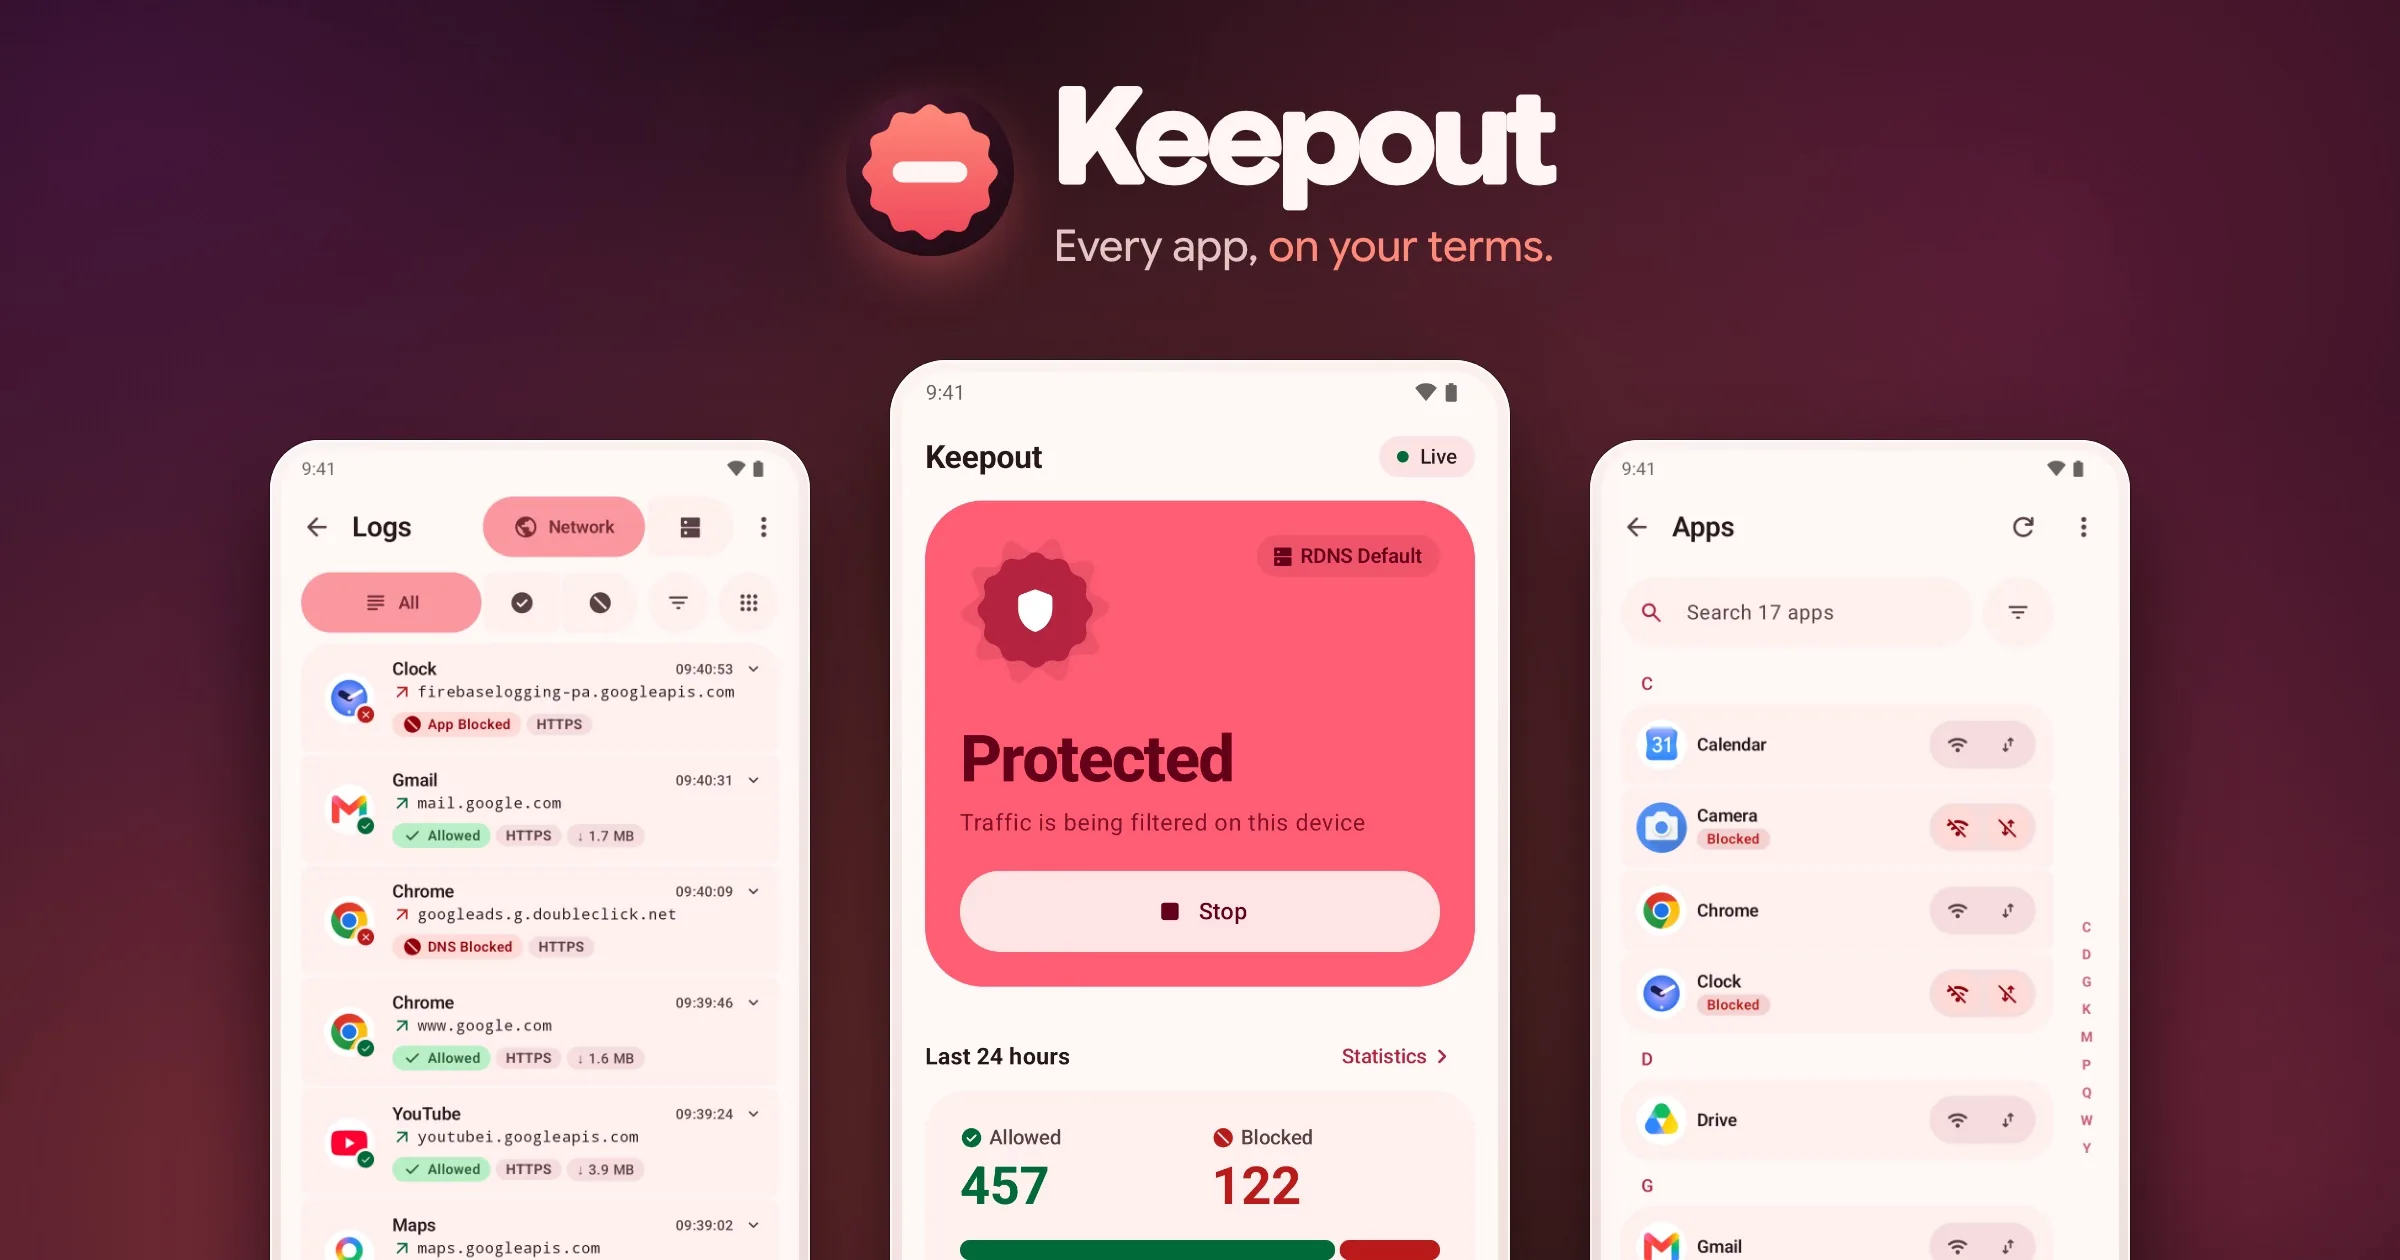
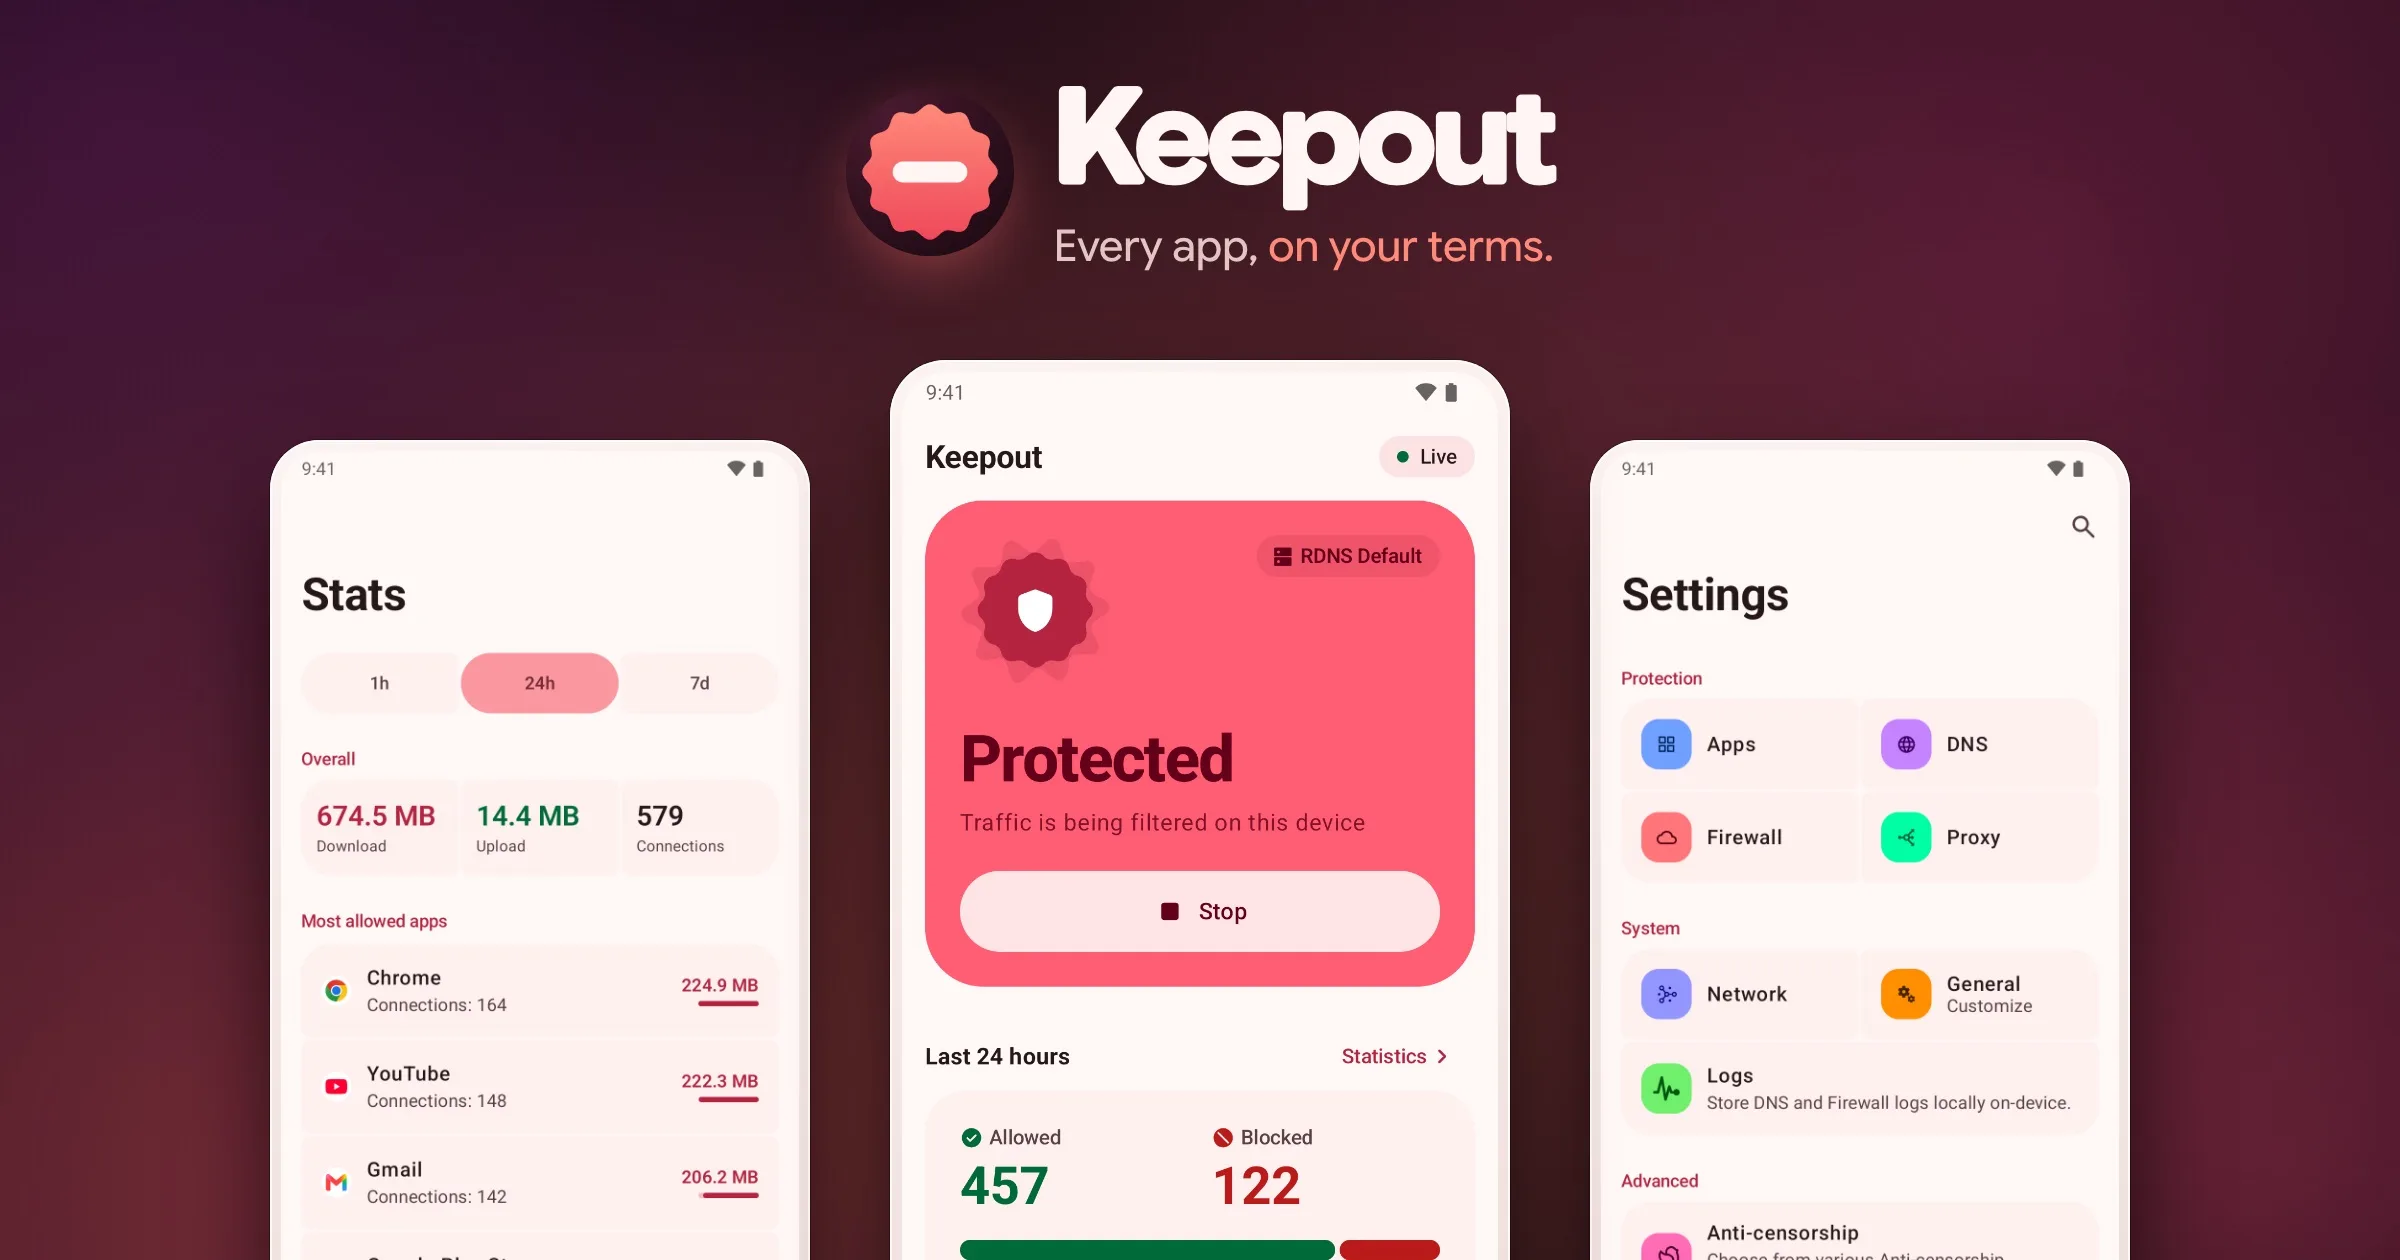
Keepout hero: stats and settings beside Home

diff --git a/lib/apps.ts b/lib/apps.ts
@@ -34,7 +34,7 @@ export const apps: AppData[] = [
     platforms: ["Android"],
     repoUrl: "https://github.com/bernaferrari/rethink-app",
     images: [
-      { file: "hero", alt: "Keepout's network log, Home with protection on, and the app list" },
+      { file: "hero", alt: "Keepout's stats, Home with protection on, and settings" },
       {
         file: "tools",
         alt: "An app cut off on Wi-Fi and mobile data, DNS in use, and the most blocked apps",
